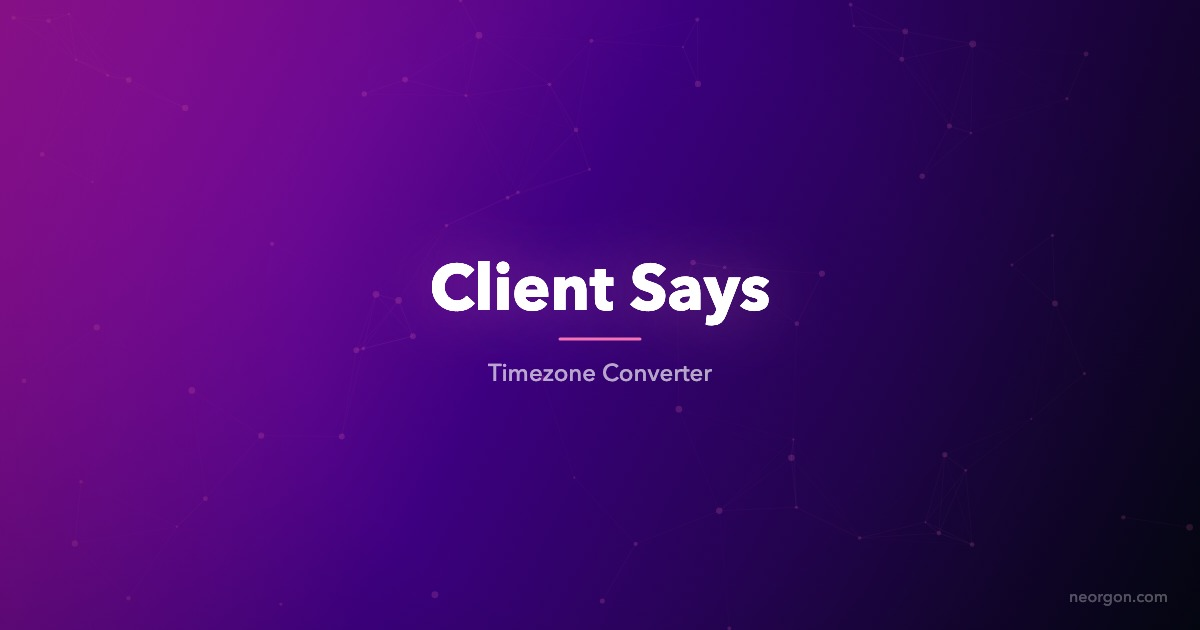
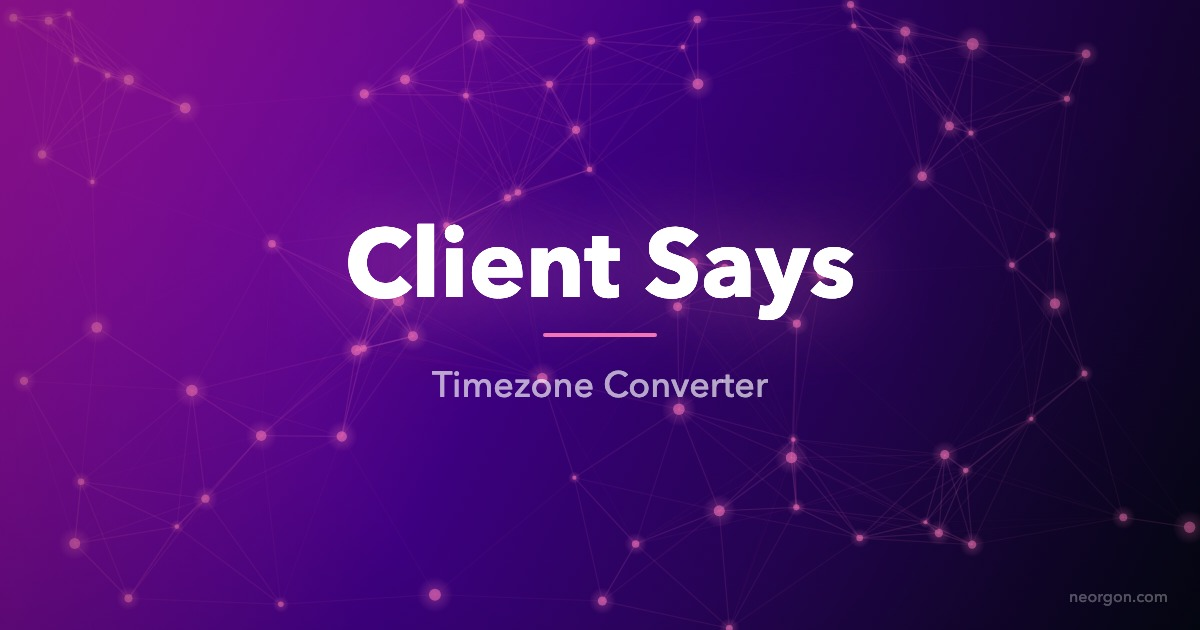
OG Image

diff --git a/js/patterns.js b/js/patterns.js
@@ -5,15 +5,15 @@ import { mulberry32 } from './utils.js';
 export function drawConstellation(ctx, rng, accent, count) {
   const pts = [];
   for (let i = 0; i < count; i++) {
-    pts.push({ x: rng() * W, y: rng() * H, r: 1 + rng() * 2.5 });
+    pts.push({ x: rng() * W, y: rng() * H, r: 2 + rng() * 4 });
   }
-  ctx.lineWidth = 0.8;
+  ctx.lineWidth = 1.4;
   for (let i = 0; i < pts.length; i++) {
     for (let j = i + 1; j < pts.length; j++) {
       const dx = pts[i].x - pts[j].x, dy = pts[i].y - pts[j].y;
       const dist = Math.sqrt(dx * dx + dy * dy);
-      if (dist < 160) {
-        const alpha = Math.round((1 - dist / 160) * 25);
+      if (dist < 220) {
+        const alpha = Math.round((1 - dist / 220) * 55);
         ctx.strokeStyle = accent + alpha.toString(16).padStart(2, '0');
         ctx.beginPath();
         ctx.moveTo(pts[i].x, pts[i].y);
@@ -23,9 +23,18 @@ export function drawConstellation(ctx, rng, accent, count) {
     }
   }
   for (const p of pts) {
+    // glow halo
+    const grd = ctx.createRadialGradient(p.x, p.y, 0, p.x, p.y, p.r * 3);
+    grd.addColorStop(0, accent + '55');
+    grd.addColorStop(1, accent + '00');
+    ctx.beginPath();
+    ctx.arc(p.x, p.y, p.r * 3, 0, Math.PI * 2);
+    ctx.fillStyle = grd;
+    ctx.fill();
+    // crisp dot
     ctx.beginPath();
     ctx.arc(p.x, p.y, p.r, 0, Math.PI * 2);
-    ctx.fillStyle = accent + '30';
+    ctx.fillStyle = accent + '90';
     ctx.fill();
   }
 }
@@ -206,19 +215,25 @@ export function drawVignette(ctx) {
 }
 
 /* ── Text ────────────────────────────────────────────────────────── */
-export function drawText(ctx, title, subtitle, accent, fontSize = 64) {
+export function drawText(ctx, title, subtitle, accent, fontSize = 96) {
   const cx = W / 2, cy = H / 2;
   const font = '"Avenir Next", -apple-system, BlinkMacSystemFont, "Segoe UI", sans-serif';
+  const subSize = Math.round(fontSize * 0.38);
 
-  // glow
+  // Layout: title centered slightly above canvas mid, then accent line, then subtitle
+  const titleY = cy - 40;
+  const lineY  = titleY + Math.round(fontSize * 0.62);
+  const subY   = lineY + subSize + 18;
+
+  // glow pass
   ctx.save();
-  ctx.shadowColor = accent + '60';
-  ctx.shadowBlur = 60;
+  ctx.shadowColor = accent + '80';
+  ctx.shadowBlur = 80;
   ctx.fillStyle = '#ffffff';
   ctx.font = `700 ${fontSize}px ${font}`;
   ctx.textAlign = 'center';
   ctx.textBaseline = 'middle';
-  ctx.fillText(title, cx, cy - 20);
+  ctx.fillText(title, cx, titleY);
   ctx.restore();
 
   // crisp title
@@ -226,23 +241,23 @@ export function drawText(ctx, title, subtitle, accent, fontSize = 64) {
   ctx.font = `700 ${fontSize}px ${font}`;
   ctx.textAlign = 'center';
   ctx.textBaseline = 'middle';
-  ctx.fillText(title, cx, cy - 20);
+  ctx.fillText(title, cx, titleY);
 
   // accent line
-  const lineW = 80;
   ctx.strokeStyle = accent;
-  ctx.lineWidth = 3;
+  ctx.lineWidth = 4;
   ctx.lineCap = 'round';
   ctx.beginPath();
-  ctx.moveTo(cx - lineW / 2, cy + 24);
-  ctx.lineTo(cx + lineW / 2, cy + 24);
+  ctx.moveTo(cx - 55, lineY);
+  ctx.lineTo(cx + 55, lineY);
   ctx.stroke();
 
   // subtitle
-  const subSize = Math.round(fontSize * 0.375);
   ctx.fillStyle = 'rgba(255,255,255,.65)';
   ctx.font = `500 ${subSize}px ${font}`;
-  ctx.fillText(subtitle, cx, cy + 60);
+  ctx.textAlign = 'center';
+  ctx.textBaseline = 'middle';
+  ctx.fillText(subtitle, cx, subY);
 }
 
 /* ── Branding ────────────────────────────────────────────────────── */

diff --git a/js/state.js b/js/state.js
@@ -20,6 +20,7 @@ export const sites = [
   { id: 'rush-q-cards',     title: 'Rush Q Cards',         subtitle: 'Corporate Strategy Card Game',       accent: '#0080ff', domain: '' },
   { id: 'snippets',          title: 'Snippets',             subtitle: 'Search, Copy, Ship',                 accent: '#10b981', domain: 'snippets.neorgon.com' },
   { id: 'guild-hall',        title: 'Guild Hall',           subtitle: 'Quest Board',                        accent: '#ef4444', domain: 'guildhall.neorgon.com' },
+  { id: 'parla',             title: 'Parla',                subtitle: 'Latin American Slang Translator',    accent: '#f97316', domain: 'parla.neorgon.com' },
 ];
 
 export const gradientPresets = [
@@ -57,7 +58,7 @@ export const state = {
     pattern: 'constellation',
     density: 'medium',
     gradientIndex: 0,
-    fontSize: 64,
+    fontSize: 96,
     showBranding: true,
     brandingText: 'neorgon.com',
   },

diff --git a/js/render.js b/js/render.js
@@ -96,7 +96,7 @@ export function buildCustomCreator() {
       </div>
       <div class="field">
         <label>Title font size: <span id="c-fontsize-val">${c.fontSize}</span>px</label>
-        <input type="range" id="c-fontsize" min="32" max="96" value="${c.fontSize}" style="width:100%">
+        <input type="range" id="c-fontsize" min="48" max="120" value="${c.fontSize}" style="width:100%">
       </div>
     </div>
 
